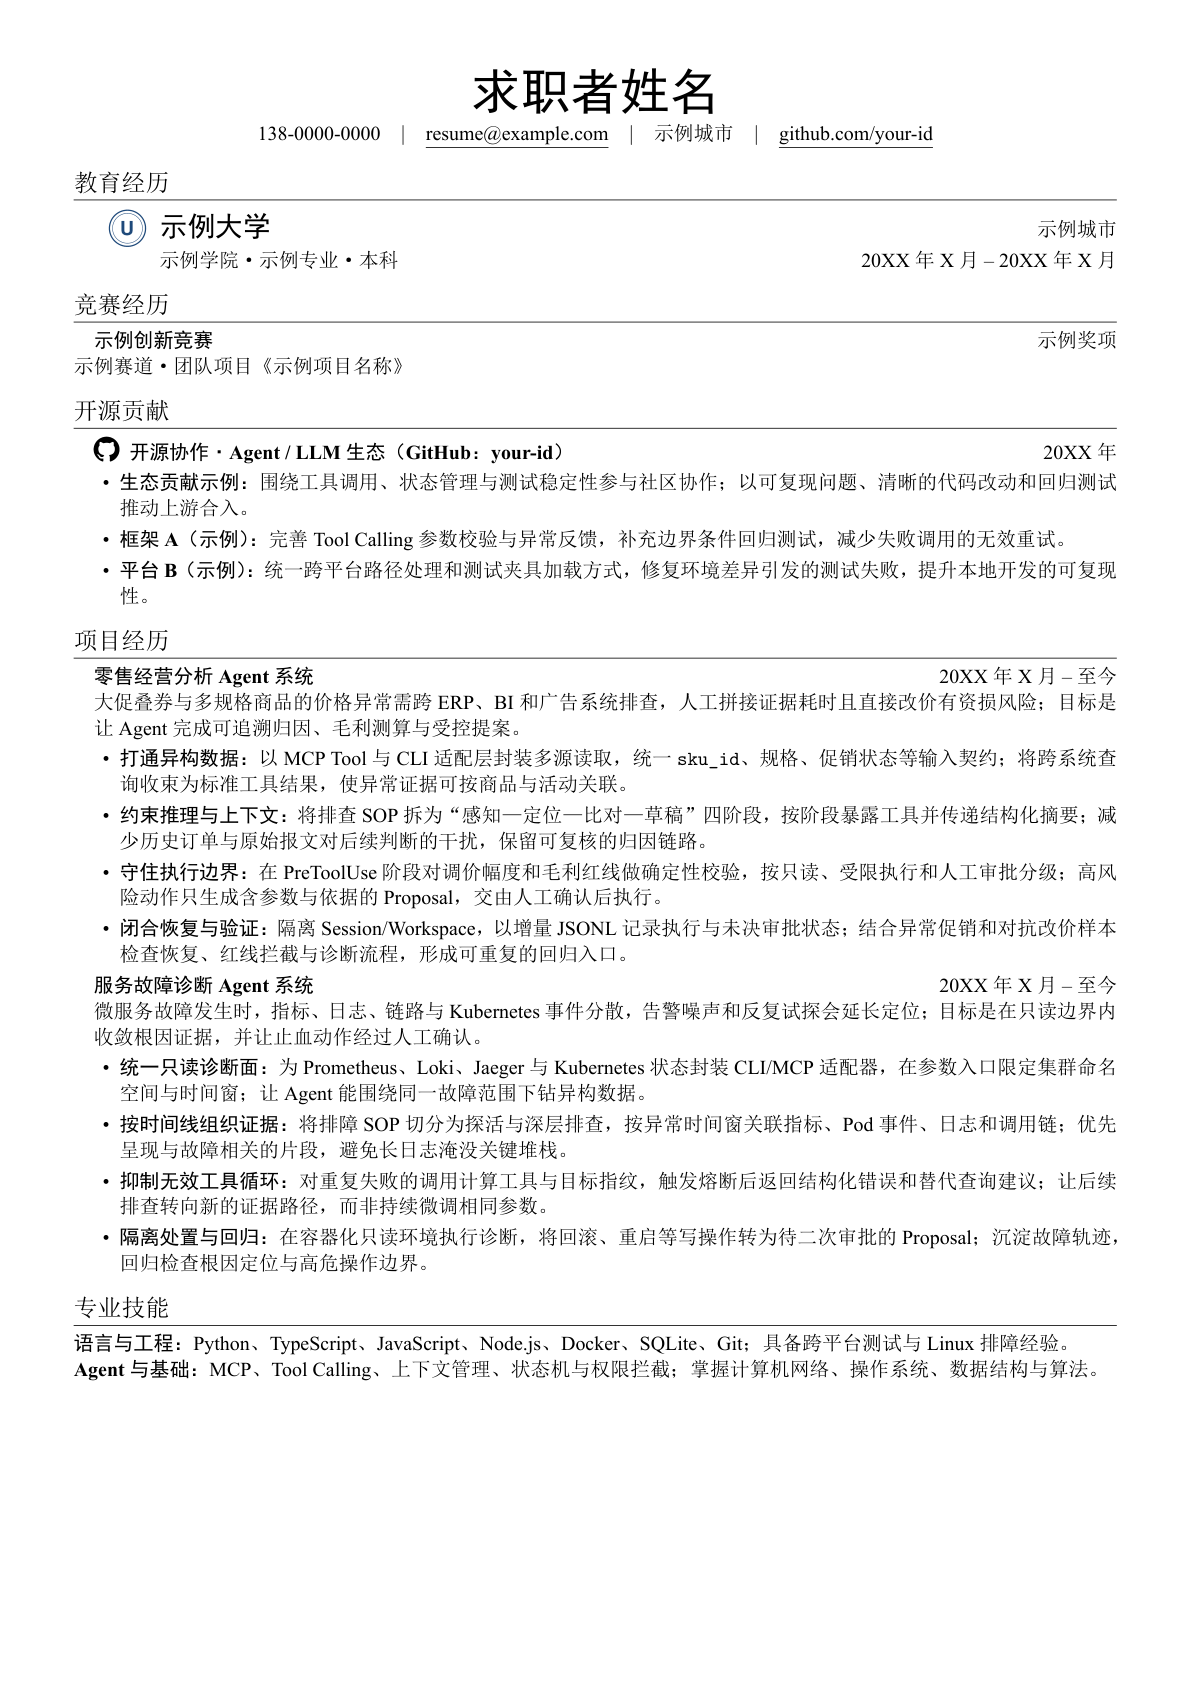
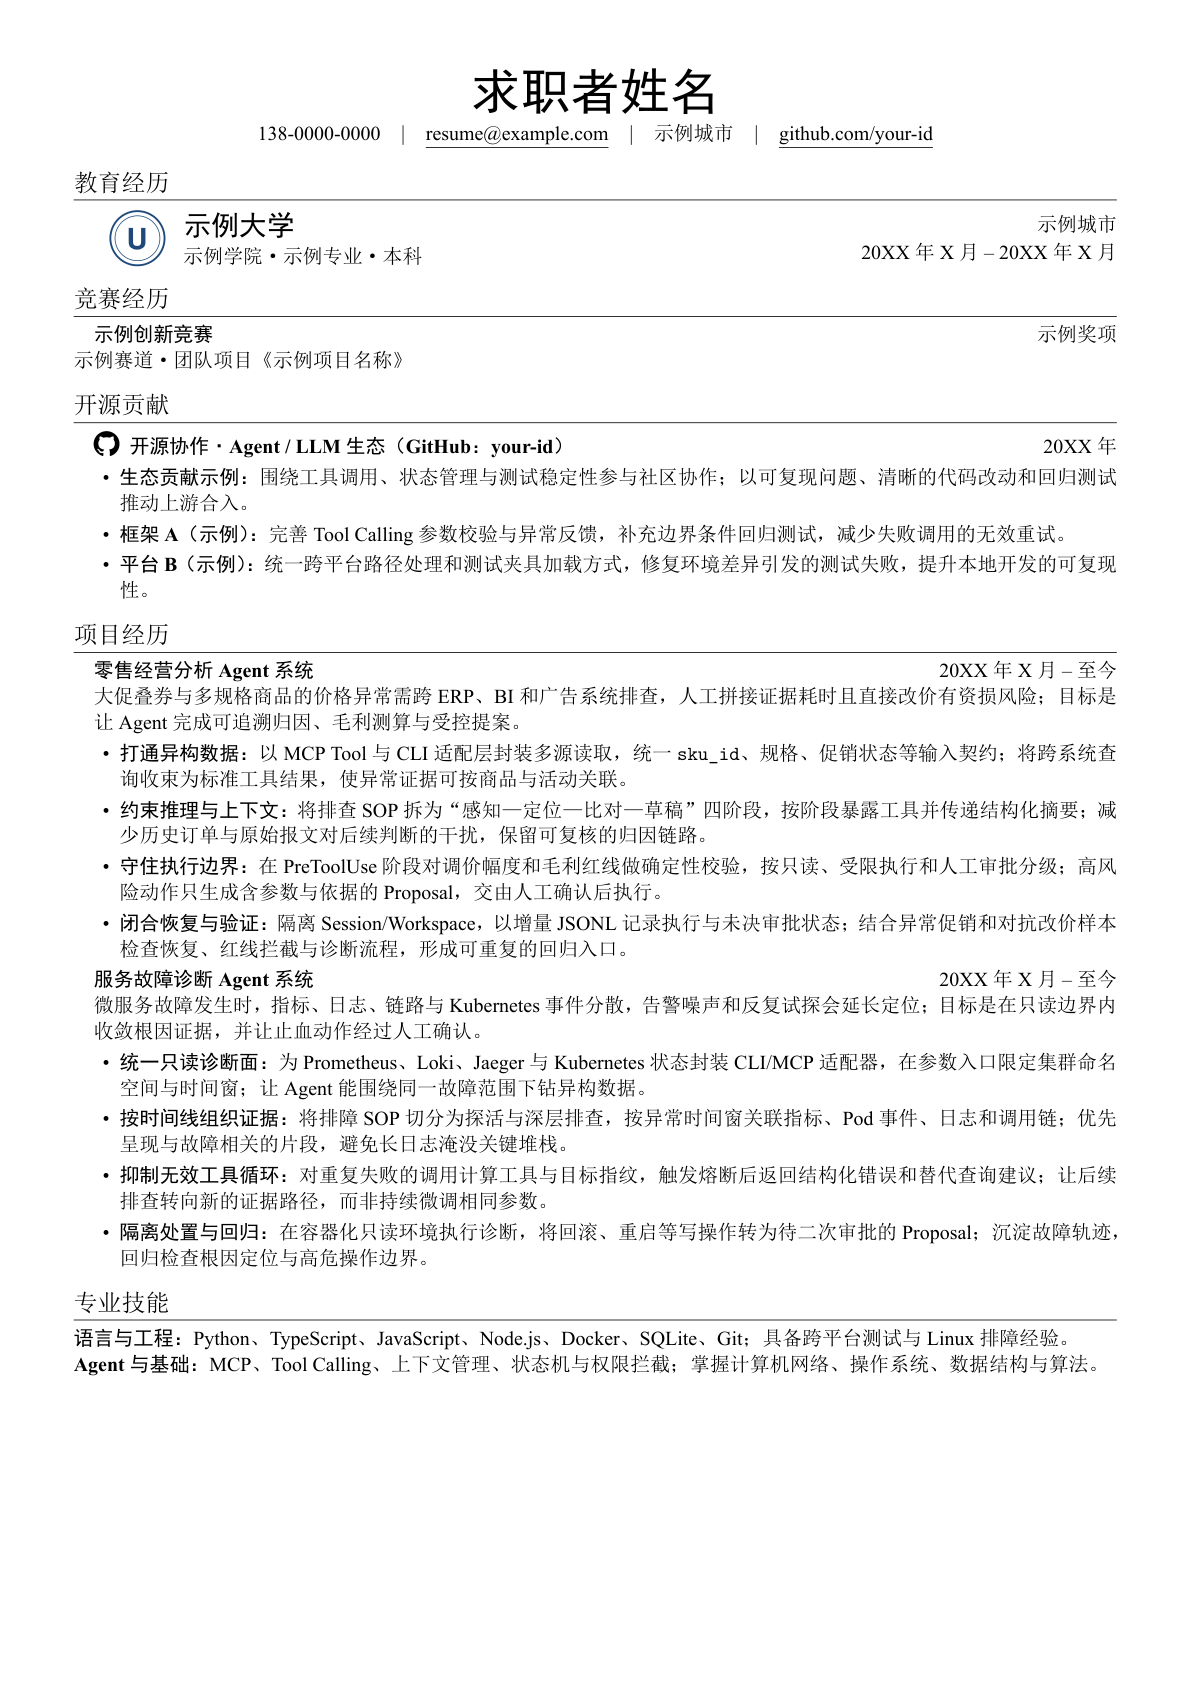
Enlarge example university emblem

diff --git a/main.tex b/main.tex
@@ -35,8 +35,11 @@
 \end{center}
 
 \section{教育经历}
-\hspace*{17pt}\datedheading{\raisebox{-6pt}{\includegraphics[height=20pt]{university-emblem.pdf}}\hspace{6pt}{\fontsize{14pt}{17pt}\selectfont\bfseries 示例大学}}{示例城市}
-\hspace*{43pt}示例学院 · 示例专业 · 本科\hfill 20XX年X月 -- 20XX年X月
+\noindent\hspace*{17pt}%
+\parbox[c]{30pt}{\includegraphics[height=30pt]{university-emblem.pdf}}%
+\hspace{8pt}%
+\parbox[c]{280pt}{{\fontsize{14pt}{17pt}\selectfont\bfseries 示例大学}\par\vspace{1pt}示例学院 · 示例专业 · 本科}%
+\hfill\parbox[c]{145pt}{\raggedleft 示例城市\par\vspace{1pt}20XX年X月 -- 20XX年X月}\par
 
 \section{竞赛经历}
 \hspace*{10pt}\datedheading{示例创新竞赛}{示例奖项}
